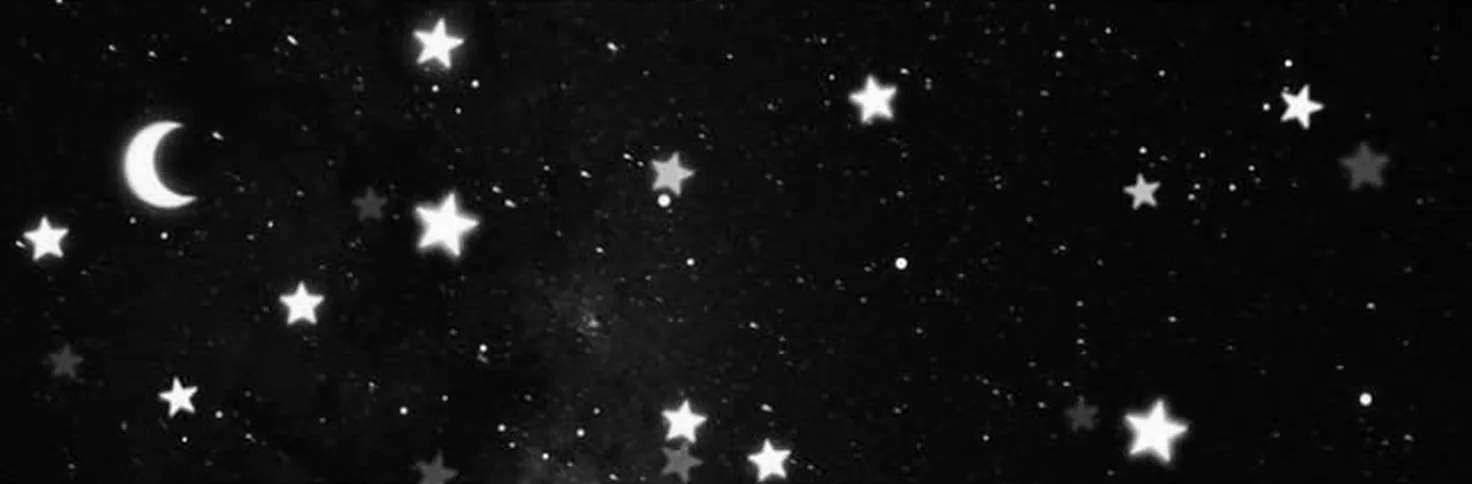
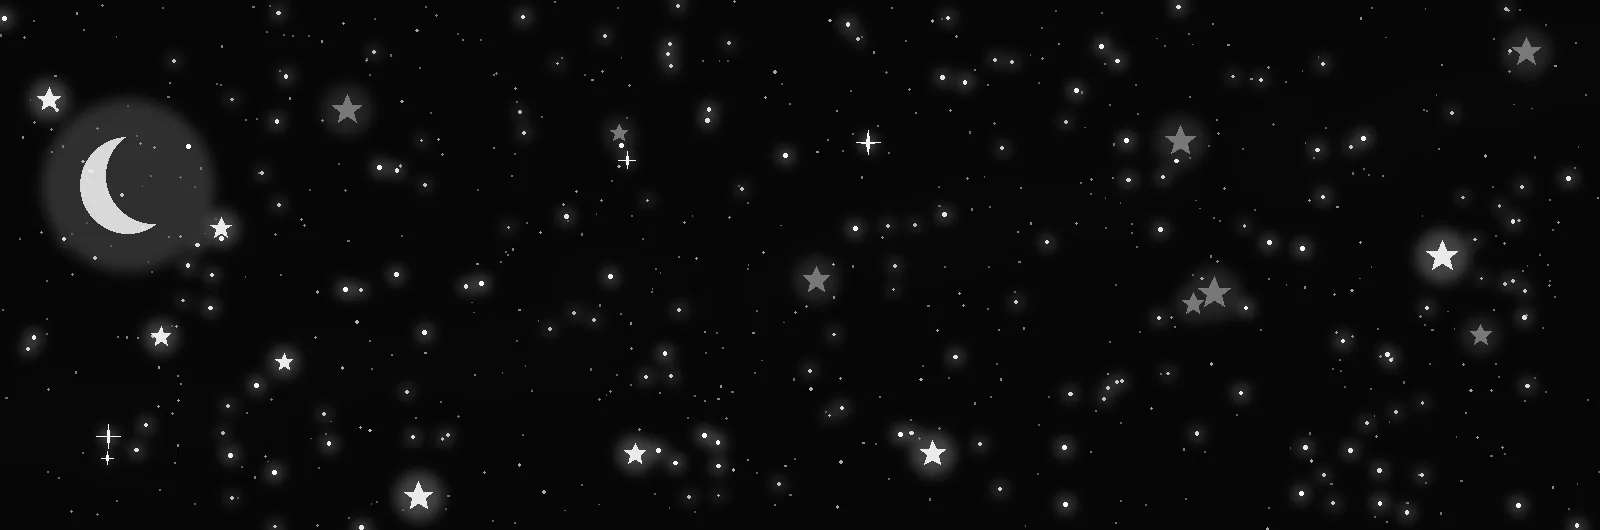
Act on portfolio review: screenshots, Summer 2027, cleanups
- Project cards are pre-rendered into the HTML, so visitors and crawlers
  without JavaScript see both screenshots and both Source links
- OpsWatch gets a screenshot of real terminal output: demo agents open
  tickets, then a healthy report closes one automatically
- Game Deal Tracker uses the dashboard screenshot from its docs folder
- Wording moves from a Winter 2027 co-op to a Summer 2027 internship,
  including the link preview image
- Night sky readout stays hidden until the animation runs, so it never
  shows zero counts
- Hero and contact backgrounds are now original generated starfields;
  the credit line covers only the profile illustration
- Timeline is most recent first; Skills rows follow the résumé, removing
  the duplicate Tools heading; screenshots get descriptive alt text

Claude-Session: https://claude.ai/code/session_01DfMnKkshq2nStKvZ6bfh9r

diff --git a/index.html b/index.html
@@ -4,7 +4,7 @@
   <meta charset="utf-8">
   <meta name="viewport" content="width=device-width, initial-scale=1">
   <title>Joshua Mathias</title>
-  <meta name="description" content="Computer Science student at Ontario Tech focused on backend and cloud infrastructure with Python, Docker, PostgreSQL and SQL. Seeking a Winter 2027 co-op.">
+  <meta name="description" content="Computer Science student at Ontario Tech focused on backend and cloud infrastructure with Python, Docker, PostgreSQL and SQL. Seeking a Summer 2027 internship.">
   <meta name="color-scheme" content="dark">
   <meta name="theme-color" content="#0a0a0b">
 
@@ -12,7 +12,7 @@
   <meta property="og:type" content="website">
   <meta property="og:url" content="https://jmscripts1.github.io/">
   <meta property="og:title" content="Joshua Mathias">
-  <meta property="og:description" content="CS student at Ontario Tech. Backend and cloud infrastructure with Python, Docker, PostgreSQL and SQL. Seeking a Winter 2027 co-op.">
+  <meta property="og:description" content="CS student at Ontario Tech. Backend and cloud infrastructure with Python, Docker, PostgreSQL and SQL. Seeking a Summer 2027 internship.">
   <meta property="og:image" content="https://jmscripts1.github.io/assets/og.png">
   <meta property="og:image:width" content="1200">
   <meta property="og:image:height" content="630">
@@ -21,8 +21,8 @@
   <link rel="icon" href="assets/favicon.svg" type="image/svg+xml">
   <link rel="preload" href="assets/fonts/Geist-Variable.woff2" as="font" type="font/woff2" crossorigin>
   <link rel="preload" href="assets/img/starfield.webp" as="image">
-  <link rel="stylesheet" href="assets/style.css?v=20261121e">
-  <link rel="stylesheet" href="assets/home.css?v=20261121e">
+  <link rel="stylesheet" href="assets/style.css?v=20261121f">
+  <link rel="stylesheet" href="assets/home.css?v=20261121f">
   <script>document.documentElement.classList.add("js")</script>
 </head>
 <body class="art home">
@@ -43,7 +43,7 @@
 
   <main id="main">
     <section class="hh" id="top">
-      <img class="hh__art" src="assets/img/starfield.webp" width="736" height="414" alt="" fetchpriority="high">
+      <img class="hh__art" src="assets/img/starfield.webp" width="1600" height="900" alt="" fetchpriority="high">
       <canvas class="hh__canvas" data-sky aria-hidden="true"></canvas>
       <div class="hero wrap">
       <div class="hero__copy">
@@ -64,7 +64,7 @@
         <ul class="now__list">
           <li>
             <svg class="icon" aria-hidden="true"><use href="assets/icons.svg#i-handshake"/></svg>
-            <span>Looking for a Winter 2027 co-op in backend or infrastructure</span>
+            <span>Looking for a Summer 2027 internship in backend or infrastructure</span>
           </li>
           <li>
             <svg class="icon" aria-hidden="true"><use href="assets/icons.svg#i-desktop-tower"/></svg>
@@ -74,7 +74,7 @@
         </aside>
       </div>
       </div>
-      <p class="hud" aria-hidden="true">
+      <p class="hud" aria-hidden="true" hidden>
         <span>night sky</span>
         <span><b data-hud="fps">60</b> fps</span>
         <span><b data-hud="stars">0</b> stars</span>
@@ -86,147 +86,47 @@
     <section class="section wrap reveal" id="projects" aria-labelledby="projects-title">
       <h2 class="section__title" id="projects-title">Projects</h2>
       <div class="work-filters" id="projects-filters" role="group" aria-label="Filter projects" hidden></div>
-      <!-- Built from assets/projects-data.js by assets/projects.js; the cards below are the fallback -->
+      <!-- Built from assets/projects-data.js by assets/projects.js. The cards below are a pre-rendered copy for visitors and crawlers without JavaScript; re-copy them after editing the data file. -->
 
-      <div class="bento" id="projects-grid">
-        <article class="tile tile--feature">
+      <div class="pgrid" id="projects-grid">
+        <article class="pj c2-span2 c3-span3 pj--img" data-area="systems-devops">
+        
+        <a class="pj__shot" href="assets/projects/opswatch-terminal.webp" target="_blank" rel="noopener"><picture><img src="assets/projects/opswatch-terminal.webp" alt="Terminal output from OpsWatch: demo agents open four tickets for full disks and stale backups, then a healthy disk report closes ticket 1 automatically" loading="lazy"></picture></a>
+        <div class="pj__body">
           <div class="tile__head">
             <h3 class="tile__title">OpsWatch</h3>
-            <a class="tile__link" href="https://github.com/JMScripts1/opswatch" target="_blank" rel="noopener">
-              Source<svg class="icon" aria-hidden="true"><use href="assets/icons.svg#i-arrow-up-right"/></svg>
-            </a>
+            <div class="pj__links"><a class="pj__link" href="https://github.com/JMScripts1/opswatch" target="_blank" rel="noopener">Source<svg class="icon" aria-hidden="true"><use href="assets/icons.svg#i-arrow-up-right"></use></svg></a></div>
           </div>
-          <p class="tile__body">Self-hosted health monitoring for small IT environments, modeled on the tools managed service providers use every day.</p>
-
-          <ol class="flow" aria-label="How OpsWatch works">
-            <li class="flow__step">
-              <svg class="icon" aria-hidden="true"><use href="assets/icons.svg#i-desktop-tower"/></svg>
-              <strong>Agents check</strong>
-              <span>Disk, services, backups, TLS certs, OS updates</span>
-            </li>
-            <li class="flow__step">
-              <svg class="icon" aria-hidden="true"><use href="assets/icons.svg#i-database"/></svg>
-              <strong>Server stores</strong>
-              <span>Agents push results, no inbound ports needed</span>
-            </li>
-            <li class="flow__step">
-              <svg class="icon" aria-hidden="true"><use href="assets/icons.svg#i-ticket"/></svg>
-              <strong>Tickets track</strong>
-              <span>One ticket per problem, closed once it clears</span>
-            </li>
-            <li class="flow__step">
-              <svg class="icon" aria-hidden="true"><use href="assets/icons.svg#i-bell-ringing"/></svg>
-              <strong>Alerts send</strong>
-              <span>Discord or Slack, plus a daily summary</span>
-            </li>
-          </ol>
-
-          <ul class="chips" aria-label="Built with">
-            <li>Python</li><li>FastAPI</li><li>PostgreSQL</li><li>Docker Compose</li><li>GitHub Actions</li><li>pytest</li>
-          </ul>
-        </article>
-
-        <article class="tile tile--tall">
+          <p class="pj__area">Systems &amp; DevOps<span class="pj__status">In progress</span></p>
+          <p class="tile__body">Self-hosted IT health monitoring modelled on the remote monitoring tools managed service providers use. Linux and Windows agents report to a FastAPI server over outbound HTTPS with token authentication.</p>
+          <ol class="flow pj__flow" aria-label="How OpsWatch works">
+          <li class="flow__step"><svg class="icon" aria-hidden="true"><use href="assets/icons.svg#i-desktop-tower"></use></svg><strong>Agents check</strong><span>Disk, services, backup age, TLS expiry, pending updates</span></li>
+          <li class="flow__step"><svg class="icon" aria-hidden="true"><use href="assets/icons.svg#i-database"></use></svg><strong>Server stores</strong><span>FastAPI and PostgreSQL, run with Docker Compose</span></li>
+          <li class="flow__step"><svg class="icon" aria-hidden="true"><use href="assets/icons.svg#i-ticket"></use></svg><strong>Rules engine</strong><span>One ticket per problem, escalated, closed once it clears</span></li>
+          <li class="flow__step"><svg class="icon" aria-hidden="true"><use href="assets/icons.svg#i-bell-ringing"></use></svg><strong>Alerts send</strong><span>Discord or Slack, plus a daily summary</span></li></ol><dl class="facts"><div><dt>CI</dt><dd>Ruff lint, pytest and a Docker build on every push</dd></div></dl><ul class="chips" aria-label="Built with"><li>Python</li><li>FastAPI</li><li>PostgreSQL</li><li>Docker Compose</li><li>GitHub Actions</li><li>PowerShell</li><li>pytest</li></ul>
+        </div>
+      </article>
+        <article class="pj c2-span2 c3-span3 pj--img" data-area="backend-data">
+        
+        <a class="pj__shot pj__shot--site" href="https://jmscripts1.github.io/game-deal-tracker/" target="_blank" rel="noopener" aria-label="Open the Game Deal Tracker page"><picture><img src="assets/projects/game-deal-tracker-dashboard.webp" alt="The Game Deal Tracker dashboard: biggest price drop right now, sale counts, and watchlist games under their target price" loading="lazy"></picture></a>
+        <div class="pj__body">
           <div class="tile__head">
             <h3 class="tile__title">Game Deal Tracker</h3>
-            <a class="tile__link" href="https://jmscripts1.github.io/game-deal-tracker/" target="_blank" rel="noopener">
-              Live page<svg class="icon" aria-hidden="true"><use href="assets/icons.svg#i-arrow-up-right"/></svg>
-            </a>
+            <div class="pj__links"><a class="pj__link" href="https://jmscripts1.github.io/game-deal-tracker/" target="_blank" rel="noopener">Live page<svg class="icon" aria-hidden="true"><use href="assets/icons.svg#i-arrow-up-right"></use></svg></a><a class="pj__link" href="https://github.com/JMScripts1/game-deal-tracker" target="_blank" rel="noopener">Source<svg class="icon" aria-hidden="true"><use href="assets/icons.svg#i-arrow-up-right"></use></svg></a></div>
           </div>
+          <p class="pj__area">Backend &amp; data</p>
           <p class="tile__body">Tracks prices across 30+ PC game stores through the CheapShark API, stores timestamped snapshots in SQLite, and sends a Discord alert when a watched game hits its target price.</p>
-          <dl class="facts">
-            <div><dt>Storage</dt><dd>5-table SQLite schema</dd></div>
-            <div><dt>Dashboard</dt><dd>Streamlit: deals, price history, store comparisons, watchlist</dd></div>
-          </dl>
-          <ul class="chips" aria-label="Built with">
-            <li>Python</li><li>SQL</li><li>SQLite</li><li>pandas</li><li>Streamlit</li>
-          </ul>
-        </article>
-
-      </div>
-    </section>
-
-    <section class="section wrap about reveal" id="about" aria-labelledby="about-title">
-      <div class="about__text">
-        <h2 class="section__title" id="about-title">About</h2>
-        <p>I work on backend and infrastructure: APIs, databases, containers and the CI pipelines around them.</p>
-        <p>That started at Personal Touch Computers, a managed IT services provider, where I supported about 40 small and medium-sized businesses and imaged around 100 devices. OpsWatch is my take on the monitoring tools I used there.</p>
-        <p>Off the clock I make soul beats, cut the occasional edit, read a lot of manhwa and manga, and lift.</p>
-        <div class="offclock">
-          <figure class="offclock__item">
-            <div class="beat" data-peaks="0.77,1.0,0.87,0.93,0.71,0.81,0.4,0.45,0.67,0.73,0.85,0.81,0.75,0.71,0.3,0.56,0.73,0.75,0.89,0.75,0.79,0.71,0.27,0.6,0.75,0.75,0.91,0.77,0.77,0.63,0.28,0.69,0.77,0.81,0.89,0.73,0.77,0.45,0.45,0.69,0.77,0.87,0.87,0.81,0.81,0.33,0.44,0.25">
-              <audio src="assets/about/beat.mp3" preload="none"></audio>
-              <div class="beat__head">
-                <button class="beat__play" type="button" aria-label="Play beat">
-                  <svg class="icon" aria-hidden="true"><use href="assets/icons.svg#i-play-fill"/></svg>
-                </button>
-                <div class="beat__info">
-                  <strong>Last Dive</strong>
-                  <span class="beat__time"><span data-beat-now>0:00</span> / 1:22</span>
-                </div>
-              </div>
-              <div class="beat__wave" role="slider" tabindex="0" aria-label="Seek" aria-valuemin="0" aria-valuemax="82" aria-valuenow="0"></div>
-            </div>
-          </figure>
-          <figure class="offclock__item">
-            <button class="edit" type="button" aria-label="Play edit with sound">
-              <video poster="assets/about/edit-poster.jpg" playsinline preload="none">
-                <source src="assets/about/edit.webm" type="video/webm">
-                <source src="assets/about/edit.mp4" type="video/mp4">
-              </video>
-              <span class="edit__play"><svg class="icon" aria-hidden="true"><use href="assets/icons.svg#i-play-fill"/></svg></span>
-            </button>
-          </figure>
+          <dl class="facts"><div><dt>Storage</dt><dd>5-table SQLite schema</dd></div><div><dt>Dashboard</dt><dd>Streamlit: deals, price history, store comparisons, watchlist</dd></div><div><dt>CI</dt><dd>pytest with mocked API responses, Python 3.10 to 3.14</dd></div></dl><ul class="chips" aria-label="Built with"><li>Python</li><li>SQL</li><li>SQLite</li><li>pandas</li><li>Streamlit</li><li>pytest</li><li>GitHub Actions</li></ul>
         </div>
-      </div>
-
-      <ol class="timeline" aria-label="Education and experience">
-        <li>
-          <span class="timeline__when">Expected Apr 2029</span>
-          <strong>Ontario Tech University</strong>
-          <span>BSc Computer Science</span>
-        </li>
-        <li>
-          <span class="timeline__when">Sep 2023 to Feb 2024</span>
-          <strong>IT Support &amp; Systems Co-op, Personal Touch Computers</strong>
-          <span>Service desk, device imaging, Microsoft 365, backups</span>
-        </li>
-        <li>
-          <span class="timeline__when">Jun 2023 to Nov 2026</span>
-          <strong>Court Monitor &amp; Guest Services, Flying Squirrel Sports</strong>
-          <span>Part-time alongside school</span>
-        </li>
-      </ol>
-    </section>
-
-    <section class="section wrap reveal" id="tools" aria-labelledby="tools-title">
-      <h2 class="section__title" id="tools-title">Tools</h2>
-      <div class="stack">
-        <div class="stack__row">
-          <h3>Languages</h3>
-          <ul class="chips chips--lg"><li>Python</li><li>SQL</li><li>C++</li><li>Java</li><li>Bash</li><li>PowerShell</li><li>HTML and CSS</li></ul>
-        </div>
-        <div class="stack__row">
-          <h3>Backend and data</h3>
-          <ul class="chips chips--lg"><li>FastAPI</li><li>SQLAlchemy</li><li>PostgreSQL</li><li>SQLite</li><li>REST APIs</li><li>pandas</li><li>Streamlit</li></ul>
-        </div>
-        <div class="stack__row">
-          <h3>Infrastructure</h3>
-          <ul class="chips chips--lg"><li>Docker</li><li>Docker Compose</li><li>GitHub Actions</li><li>Linux</li><li>systemd</li><li>Windows Server</li><li>Microsoft 365</li></ul>
-        </div>
-        <div class="stack__row">
-          <h3>Tools</h3>
-          <ul class="chips chips--lg"><li>Git</li><li>pytest</li><li>Ruff</li><li>VS Code</li></ul>
-        </div>
-      </div>
+      </article></div>
     </section>
 
 
     <section class="contact-band reveal" id="contact" aria-labelledby="contact-title">
-      <img class="contact-band__art" src="assets/img/star-band.webp" width="1472" height="484" alt="" loading="lazy">
+      <img class="contact-band__art" src="assets/img/star-band.webp" width="1600" height="530" alt="" loading="lazy">
       <div class="wrap contact">
-      <h2 class="contact__title" id="contact-title">Hiring for Winter 2027?</h2>
-      <p class="contact__sub">I'm looking for a backend, cloud or infrastructure co-op. Happy to talk about Python, Docker and SQL, or a PC that won't boot.</p>
+      <h2 class="contact__title" id="contact-title">Hiring for Summer 2027?</h2>
+      <p class="contact__sub">I'm looking for a backend, cloud or infrastructure internship. Happy to talk about Python, Docker and SQL, or a PC that won't boot.</p>
       <div class="contact__actions">
         <a class="btn btn--primary" href="mailto:joshmwork12@gmail.com">
           <svg class="icon" aria-hidden="true"><use href="assets/icons.svg#i-envelope-simple"/></svg>Email me
@@ -250,12 +150,12 @@
 
   <footer class="footer wrap">
     <p>&copy; <span id="year">2026</span> Joshua Mathias</p>
-    <p class="footer__credit">Background artwork belongs to its original artists.</p>
+    <p class="footer__credit">Profile illustration belongs to its original artist.</p>
   </footer>
 
   <script src="assets/main.js" defer></script>
-  <script src="assets/engine.js?v=20261121c" defer></script>
-  <script src="assets/projects-data.js?v=20261121e" defer></script>
-  <script src="assets/projects.js?v=20261121e" defer></script>
+  <script src="assets/engine.js?v=20261121f" defer></script>
+  <script src="assets/projects-data.js?v=20261121f" defer></script>
+  <script src="assets/projects.js?v=20261121f" defer></script>
 </body>
 </html>

diff --git a/assets/projects-data.js b/assets/projects-data.js
@@ -21,6 +21,7 @@
     tags      tech used, shown as small chips: ["Python", "SQLite"]
     links     buttons: [{ label: "Source", url: "https://github.com/..." }]
     image     optional screenshot
+    imageAlt  optional description of the screenshot for screen readers
     imageDark optional dark mode version of the screenshot
     site      optional live page. The screenshot links here and a
               "Live page" button is added before your other links.
@@ -45,6 +46,8 @@ window.PROJECTS = [
     summary: "Self-hosted IT health monitoring modelled on the remote monitoring tools managed service providers use. Linux and Windows agents report to a FastAPI server over outbound HTTPS with token authentication.",
     tags: ["Python", "FastAPI", "PostgreSQL", "Docker Compose", "GitHub Actions", "PowerShell", "pytest"],
     links: [{ label: "Source", url: "https://github.com/JMScripts1/opswatch" }],
+    image: "assets/projects/opswatch-terminal.webp",
+    imageAlt: "Terminal output from OpsWatch: demo agents open four tickets for full disks and stale backups, then a healthy disk report closes ticket 1 automatically",
     steps: [
       { icon: "desktop-tower", title: "Agents check", text: "Disk, services, backup age, TLS expiry, pending updates" },
       { icon: "database", title: "Server stores", text: "FastAPI and PostgreSQL, run with Docker Compose" },
@@ -61,7 +64,8 @@ window.PROJECTS = [
     summary: "Tracks prices across 30+ PC game stores through the CheapShark API, stores timestamped snapshots in SQLite, and sends a Discord alert when a watched game hits its target price.",
     tags: ["Python", "SQL", "SQLite", "pandas", "Streamlit", "pytest", "GitHub Actions"],
     site: "https://jmscripts1.github.io/game-deal-tracker/",
-    image: "assets/projects/game-deal-tracker-dark.webp",
+    image: "assets/projects/game-deal-tracker-dashboard.webp",
+    imageAlt: "The Game Deal Tracker dashboard: biggest price drop right now, sale counts, and watchlist games under their target price",
     links: [{ label: "Source", url: "https://github.com/JMScripts1/game-deal-tracker" }],
     facts: [
       { label: "Storage", value: "5-table SQLite schema" },

diff --git a/assets/home.css b/assets/home.css
@@ -167,19 +167,21 @@
 
 /* Steps row: 2 columns in a narrow card, 4 once the card is wide */
 .pj__flow { grid-template-columns: repeat(2, minmax(0, 1fr)); row-gap: 18px; margin-top: 4px; }
-@container (min-width: 560px) { .pj__flow { grid-template-columns: repeat(4, minmax(0, 1fr)); } }
+@container (min-width: 720px) { .pj__flow { grid-template-columns: repeat(4, minmax(0, 1fr)); } }
 @container (max-width: 300px) { .pj__flow { grid-template-columns: 1fr; } }
 
 /* Screenshot on top, or on the left when the card is wide */
 .pj__shot { display: block; aspect-ratio: 16 / 9; overflow: hidden; background: var(--surface-2); }
 .pj__shot picture { display: block; width: 100%; height: 100%; }
-.pj__shot img { width: 100%; height: 100%; object-fit: cover; display: block; filter: grayscale(1); transition: transform 0.8s var(--ease); }
+.pj__shot img { width: 100%; height: 100%; object-fit: cover; object-position: 0 0; display: block; filter: grayscale(1); transform-origin: 0 0; transition: transform 0.8s var(--ease); }
 /* Screenshot of a live page: keep its headline (top left) in frame when cropped */
 .pj__shot--site img { object-position: 0 0; transform-origin: 0 0; }
 @media (hover: hover) { .pj__shot:hover img { transform: scale(1.03); } }
 @media (min-width: 1024px) {
   .pj--img.c3-span2, .pj--img.c3-span3 { display: grid; grid-template-columns: 1.2fr 1fr; }
   .pj--img.c3-span2 .pj__shot, .pj--img.c3-span3 .pj__shot { aspect-ratio: auto; height: 100%; min-height: 300px; }
+  /* text sits in the narrower half next to the screenshot, so steps go two across */
+  .pj--img.c3-span2 .pj__flow, .pj--img.c3-span3 .pj__flow { grid-template-columns: repeat(2, minmax(0, 1fr)); }
 }
 
 /* Painted background for projects without screenshots */

diff --git a/assets/projects.js b/assets/projects.js
@@ -63,7 +63,7 @@
     return `
       <article class="pj ${layout(i)}${art ? " pj--art" : ""}${img ? " pj--img" : ""}${roadmap ? " pj--road" : ""}" data-area="${slug(p.area)}">
         ${art ? `<img class="pj__art" src="${esc(art)}" alt="" loading="lazy">` : ""}
-        ${img ? `<a class="pj__shot${site ? " pj__shot--site" : ""}" href="${esc(site || img)}" target="_blank" rel="noopener"${site ? ` aria-label="Open the ${esc(p.title)} page"` : ""}><picture>${imgDark ? `<source srcset="${esc(imgDark)}" media="(prefers-color-scheme: dark)">` : ""}<img src="${esc(img)}" alt="Screenshot of ${esc(p.title)}" loading="lazy"></picture></a>` : ""}
+        ${img ? `<a class="pj__shot${site ? " pj__shot--site" : ""}" href="${esc(site || img)}" target="_blank" rel="noopener"${site ? ` aria-label="Open the ${esc(p.title)} page"` : ""}><picture>${imgDark ? `<source srcset="${esc(imgDark)}" media="(prefers-color-scheme: dark)">` : ""}<img src="${esc(img)}" alt="${esc(p.imageAlt || "Screenshot of " + p.title)}" loading="lazy"></picture></a>` : ""}
         <div class="pj__body">
           <div class="tile__head">
             <h3 class="tile__title">${esc(p.title)}</h3>

diff --git a/assets/engine.js b/assets/engine.js
@@ -14,6 +14,7 @@
     stars: document.querySelector("[data-hud=stars]"),
     meteors: document.querySelector("[data-hud=meteors]"),
   };
+  const hudEl = document.querySelector(".hud");
   const reduce = window.matchMedia("(prefers-reduced-motion: reduce)");
 
   let w = 0, h = 0, dpr = 1;
@@ -156,6 +157,7 @@
     nextMeteor = last + 600;
     frames = 0;
     raf = requestAnimationFrame(frame);
+    if (hudEl) hudEl.hidden = false; // the readout only appears once there is something to count
   }
   function stop() { running = false; cancelAnimationFrame(raf); }
 
@@ -198,7 +200,9 @@
     clearTimeout(resizeTimer);
     resizeTimer = setTimeout(() => { resize(); if (!running) render(); }, 120);
   });
-  reduce.addEventListener("change", () => (reduce.matches ? (stop(), stillFrame()) : start()));
+  reduce.addEventListener("change", () => {
+    if (reduce.matches) { stop(); stillFrame(); if (hudEl) hudEl.hidden = true; } else start();
+  });
 
   resize();
   if (reduce.matches) stillFrame(); else start();
